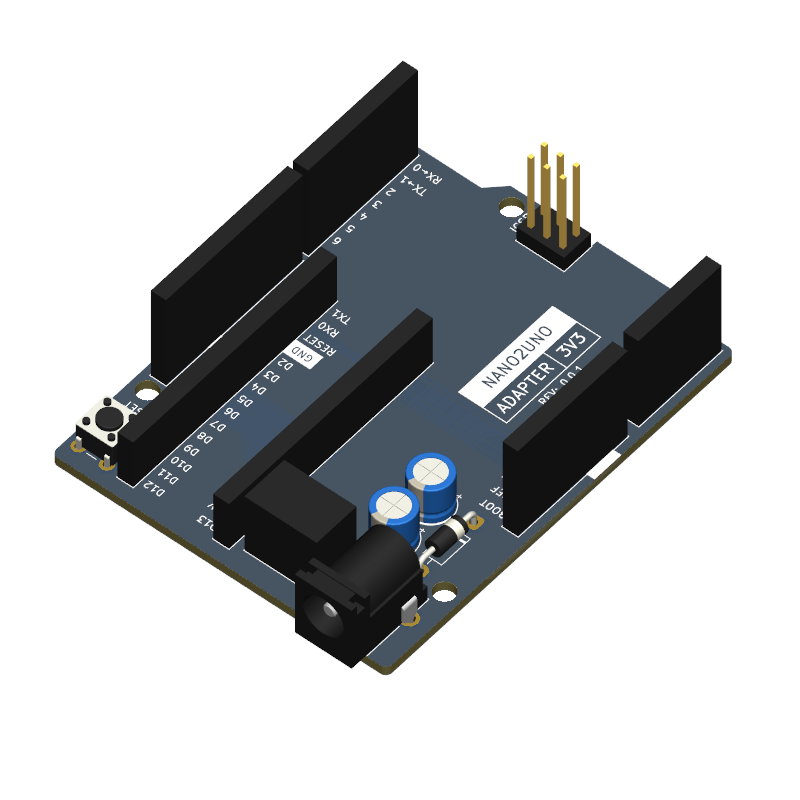
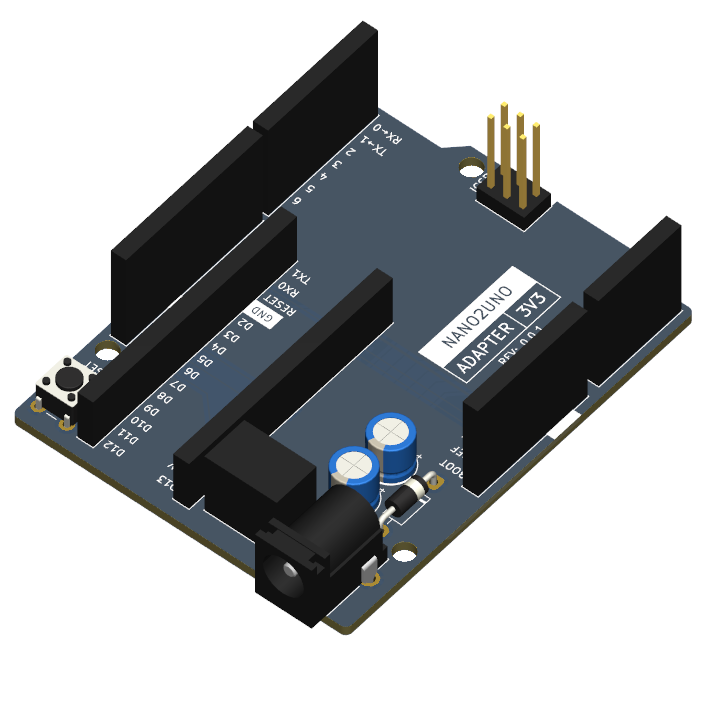
Updated README. Resized images.

Changed region(s): [[0.0, 0.0306, 0.9778, 0.8861], [0.4278, 0.5194, 0.4583, 0.55], [0.3972, 0.55, 0.4278, 0.5806]]

diff --git a/README.md b/README.md
@@ -7,14 +7,14 @@
 ![Nano2UNO Adapter 3V3 Bottom View](https://github.com/CMB27/Nano2UNO-Adapter-3V3/blob/main/extras/Nano2UNO-Adapter-3V3-Bottom-View.png)
 
 ## Overview
-The `Nano2UNO Adapter 3V3` is a circuit board to adapt 3.3V Nano boards the the UNO form factor.
+The Nano2UNO Adapter 3V3 is a circuit board to adapt 3.3V Nano boards the the UNO form factor.
 
 __Warning: when using a 3.3V Nano board with this adapter, applying voltages higher than 3.3V to any I/O pin could damage the Nano board.__
 
 This adapter maintains the pin numbering from the Nano board: e.g. pin 0 on the Nano is connected to pin 0 of the UNO interface.
 Note, pins A6 and A7 of the Nano are not connected; these pins are not present on the UNO interface.
 
-This adapted does provides a 5V switching voltage regulator.
+This adapter provides a 5V switching voltage regulator.
 This is included to ensure that 5V power is available whether the board is powered through USB, Barrel Jack, or the VIN pin.
 
 ## Tech Specs
@@ -23,18 +23,16 @@ This is included to ensure that 5V power is available whether the board is power
 |-------------------|----------------------|
 | Board Name        | Nano2UNO Adapter 3V3 |
 | Operating Voltage | 3.3V                 |
-| Input Voltage     | 6.5-36V[^1]          |
+| Input Voltage     | 6.5-36V [^1]          |
 | Length            | 68.58mm              |
 | Width             | 53.34mm              |
 | Thickness (recommended) | 1.6mm |
-
-[^1]: according to the [Recom R-78K-0.5 datasheet](https://recom-power.com/pdf/Innoline/R-78K-0.5.pdf) for R-78K5.0-0.5
 
 
 ## Compatibility
 
 ### Nano
-The `Nano2UNO Adapter 3V3` should, in theory, be compatible with the following Nano boards:
+The Nano2UNO Adapter 3V3 should, in theory, be compatible with the following Nano boards:
 - Arduino Nano 33 IoT
 - Arduino Nano 33 BLE
 - Arduino Nano 33 BLE Sense
@@ -42,3 +40,4 @@ The `Nano2UNO Adapter 3V3` should, in theory, be compatible with the following N
 - Arduino Nano RP2040 Connect
 - Arduino Nano ESP32
 
+[^1]: According to the [Recom R-78K-0.5 datasheet](https://recom-power.com/pdf/Innoline/R-78K-0.5.pdf) for R-78K5.0-0.5
